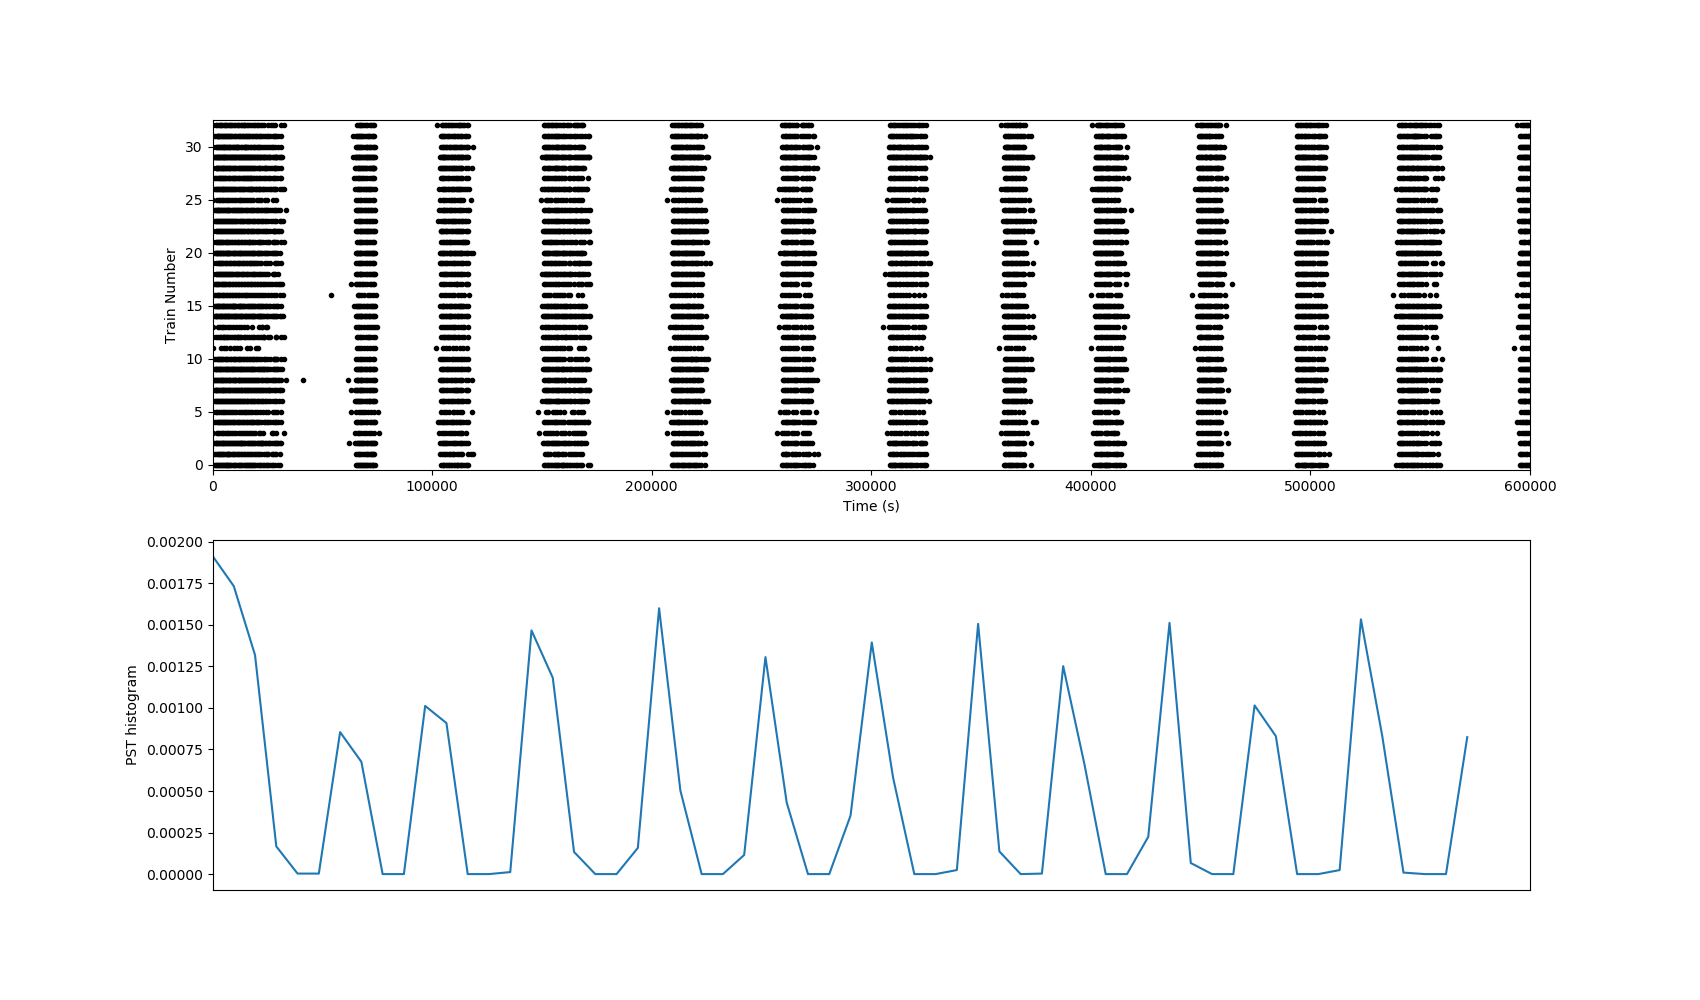
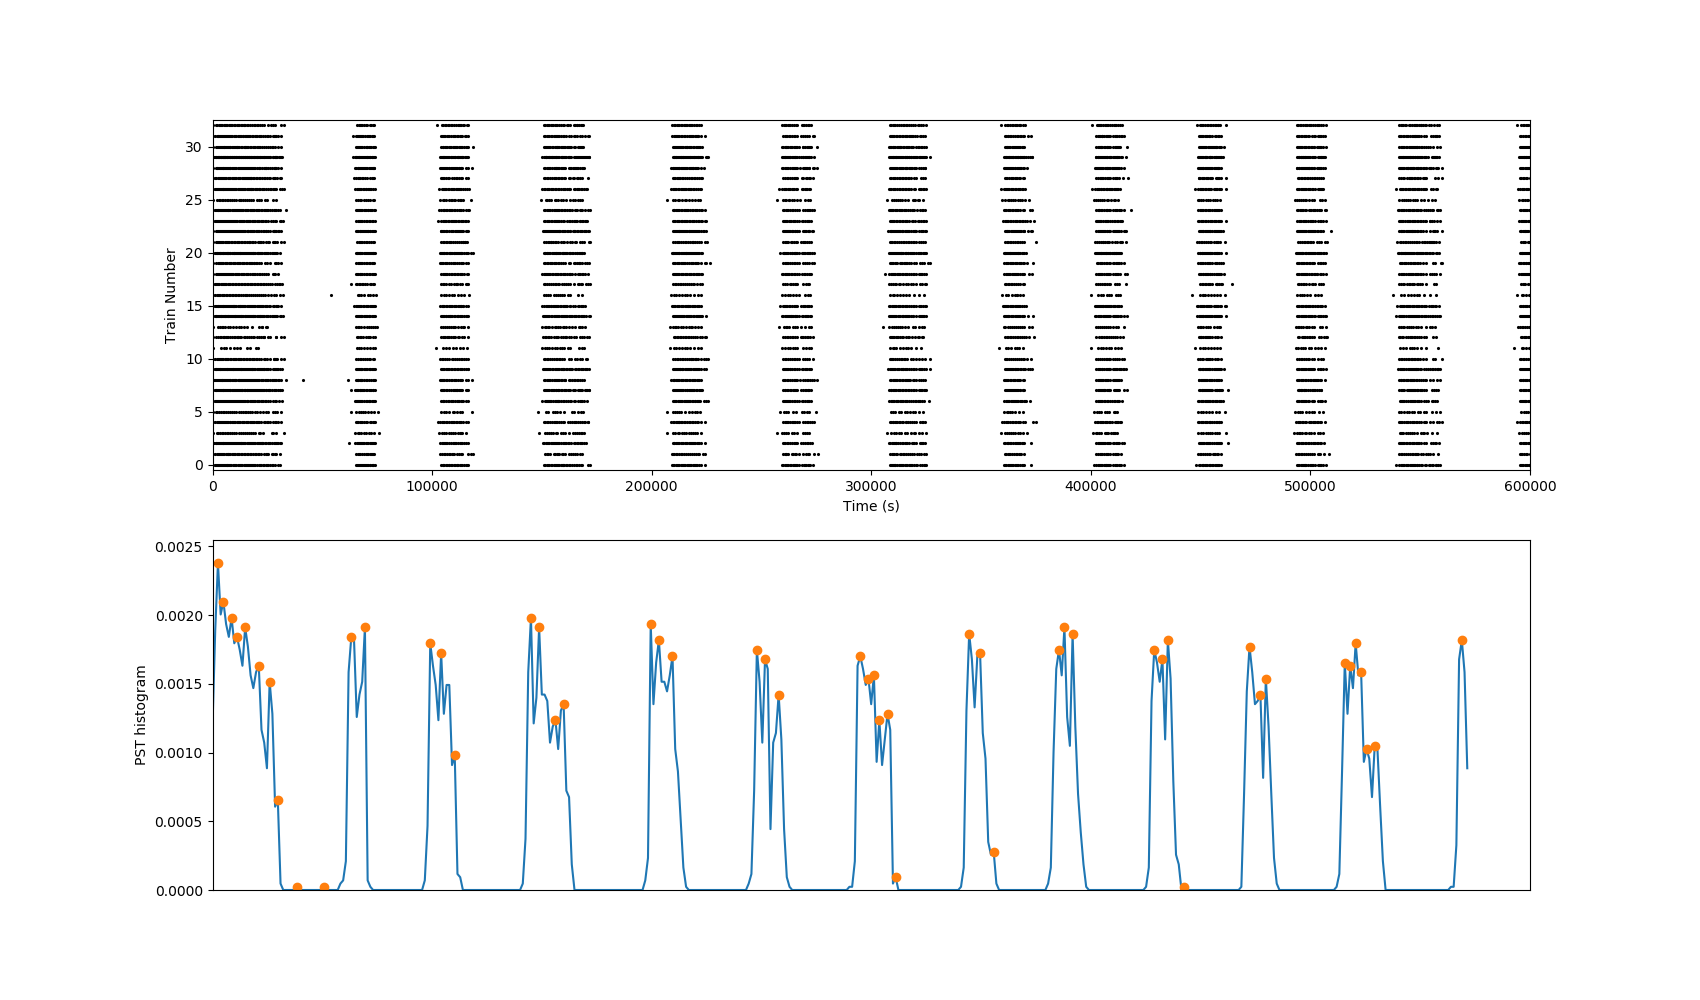
trying to find period and amp of spikehist

diff --git a/code/SPIKE/plotspikehist.py b/code/SPIKE/plotspikehist.py
@@ -30,21 +30,38 @@ st = th.make_trains(spiketimes)
 
 simulation = plt.figure(figsize=(17,10))
 simulation.add_subplot(2,1,1)
-th.plot_raster(st)
+th.plot_raster(st, markersize=2.5)
 
 
 # histogram for spikes
 simulation.add_subplot(2,1,2)
-bin = 10000
+bin = 1300
 spikeHist = th.psth(st, bin)
 # spikeHist = th.psth(st, duration/1000)
 plt.plot(spikeHist[0])
+smoothHist = np.convolve(spikeHist[0],1)
+# peaks = np.r_[False, smoothHist[1:] > smoothHist[:-1]] & numpy.r_[smoothHist[:-1] > smoothHist[1:], False]
+peaks = np.r_[False, spikeHist[0][1:] > spikeHist[0][:-1]] & numpy.r_[spikeHist[0][:-1] > spikeHist[0][1:], False]
+maxs = []
+for i in range(len(peaks)):
+    if (peaks[i] == True):
+        maxs.append(spikeHist[0][i])
+    else:
+        maxs.append(-0.001)
+
+
+plt.plot(maxs, linewidth=0, marker='o')
+# plt.plot(maxs, linestyle="", marker='o', markersize=0.7)
+
 sys.stdout.write('\x1b[1A')
 sys.stdout.write('\x1b[2K')
 plt.ylabel("PST histogram")
 # plt.xlim(xmin= 0, xmax=duration/1000)
-plt.xlim(xmin= 0)
+plt.xlim(xmin=0)
+plt.ylim(ymin=0)
 plt.xticks([])
+
+
 
 plt.show(block=False)
 
